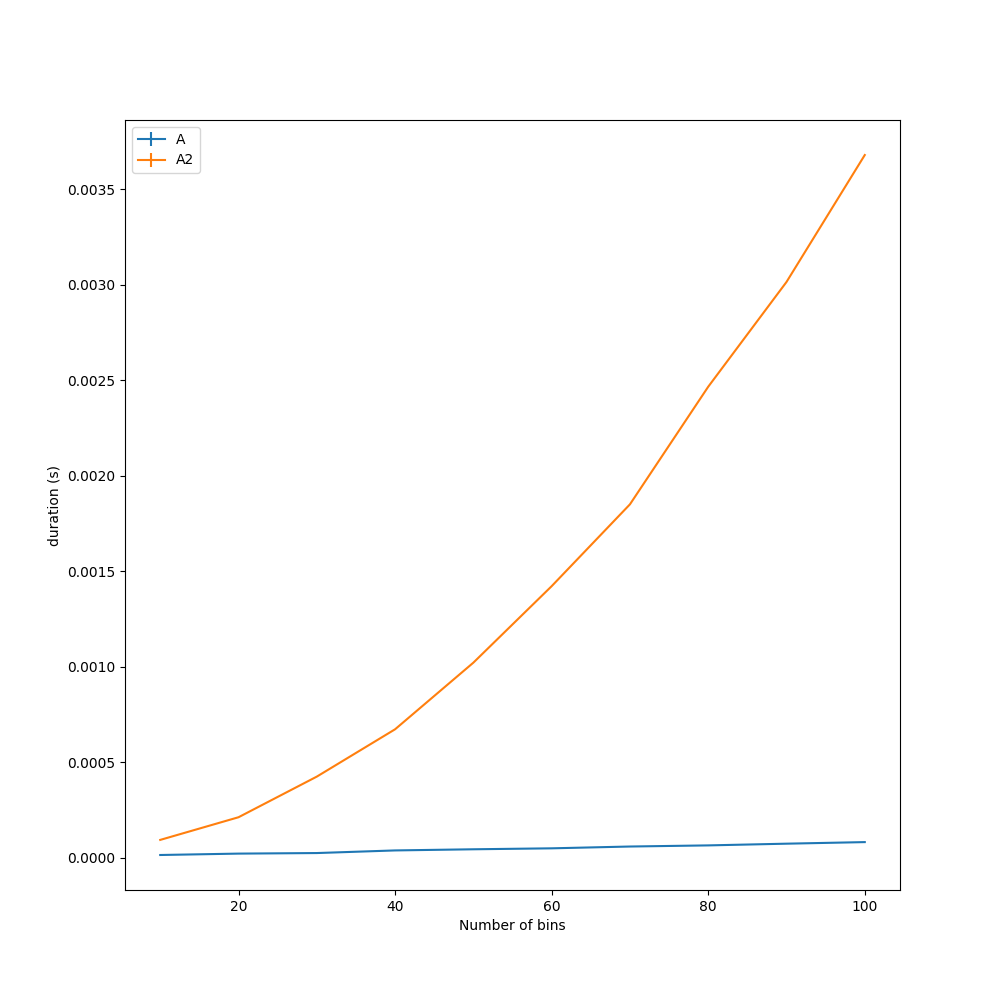
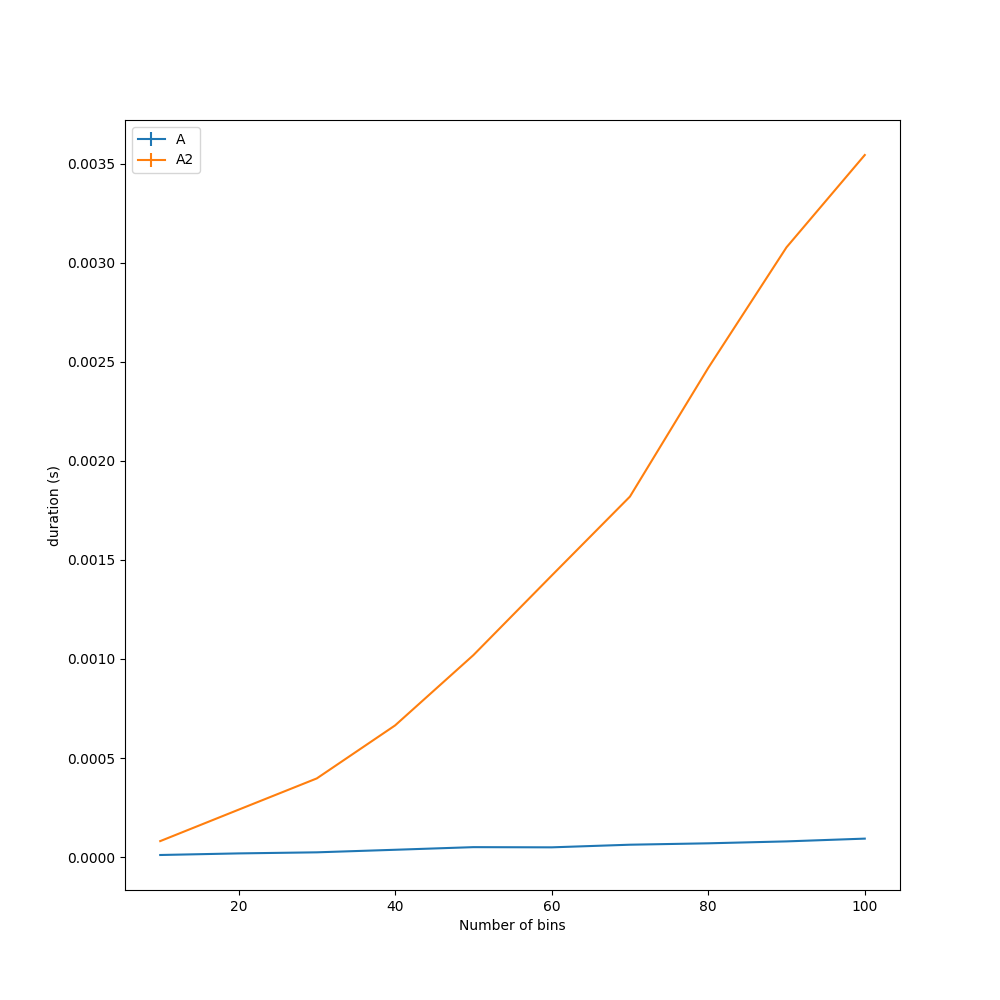
mejorar muestreo

diff --git a/stats2.py b/stats2.py
@@ -55,7 +55,7 @@ def generate_iteration_stats( functions, number_of_bins, repetitions ):
     logging.debug(iteration_stats)
     return iteration_stats
 
-def generate_stats( functions = APROXIMATIONS, start=100, stop=1000, step=100, repetitions=10, fs=None ):
+def generate_stats( functions = APROXIMATIONS, start=10, stop=100, step=10, repetitions=10, fs=None ):
 
     stats={
         "bins": [],
